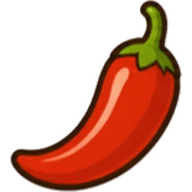
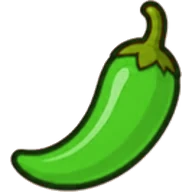
Completo por capas en la tabla, receta con palta y ají verde
- Reemplaza el completo de CSS por capas vectoriales que crecen con cada ingrediente.
- Cambia la receta del Completo a tomate, palta, chucrut y mayo, y suma la palta a la esquina 1.
- Pasa el ají a verde en el motor, el arte y la biblia.

diff --git a/v3/src/ui/gameView.ts b/v3/src/ui/gameView.ts
@@ -1,10 +1,11 @@
 // Pantalla de juego: dibuja el estado del motor en el DOM y traduce toques en acciones.
 
 import { DRINKS, RECIPES, TOPPINGS, formatCLP, type LevelConfig } from '../engine/data';
-import { Game, type Customer, type GameEvent, type StationId, type Tray } from '../engine/game';
+import { Game, type Customer, type GameEvent, type StationId } from '../engine/game';
 import type { DecorId, GameOptions } from '../engine/upgrades';
 import { play } from './audio';
 import { CUSTOMER_ART, DECOR_ART, DRINK_ART, LEVEL_BG, STATION_ART, TOPPING_ART, UPGRADE_ART, img } from './art';
+import { completoEl } from './completo';
 import { el, svgIcon } from './dom';
 
 const SCENERY: Record<LevelConfig['scene'], string[]> = {
@@ -457,7 +458,7 @@ export class GameView {
     this.trayEls.forEach((food, i) => {
       const t = g.trays[i];
       food.parentElement!.classList.toggle('active', i === g.activeTray);
-      food.replaceChildren(t ? this.hotdog(t) : el('div', { class: 'tray-empty' }, this.trayEls.length > 1 ? '+ pan' : 'Saca un pan de la vaporera'));
+      food.replaceChildren(t ? completoEl(t) : el('div', { class: 'tray-empty' }, this.trayEls.length > 1 ? '+ pan' : 'Saca un pan de la vaporera'));
     });
     const recipe = g.trayRecipe();
     if (!tray) this.trayLabel.textContent = '';
@@ -465,11 +466,6 @@ export class GameView {
     this.trayLabel.classList.toggle('ok', !!recipe);
     this.heldDrinkEl.replaceChildren(...(g.heldDrink ? [img(DRINK_ART[g.heldDrink], DRINKS[g.heldDrink].name)] : []));
     this.heldDrinkEl.hidden = !g.heldDrink;
-  }
-
-  private hotdog(tray: Tray): HTMLElement {
-    const layers = tray.toppings.map((t) => el('div', { class: `layer layer-${t}`, style: `--c:${TOPPINGS[t].color}` }));
-    return el('div', { class: 'hotdog' }, el('div', { class: 'bun-back' }), tray.vienesa ? el('div', { class: 'sausage' }) : el('div', {}), el('div', { class: 'layers' }, ...layers), el('div', { class: 'bun-front' }));
   }
 
   private renderTutorial() {

diff --git a/v3/src/ui/completo.ts b/v3/src/ui/completo.ts
@@ -1,0 +1,37 @@
+// El completo de la tabla: capas de vector apiladas, que crecen con cada ingrediente.
+
+import type { ToppingId } from '../engine/data';
+import type { Tray } from '../engine/game';
+import { img } from './art';
+import americana from './art/completo/americana.svg';
+import aji from './art/completo/aji.svg';
+import back from './art/completo/back.svg';
+import chucrutCentro from './art/completo/chucrut-centro.svg';
+import chucrut from './art/completo/chucrut.svg';
+import front from './art/completo/front.svg';
+import mayo from './art/completo/mayo.svg';
+import palta from './art/completo/palta.svg';
+import poroto from './art/completo/poroto.svg';
+import tomate from './art/completo/tomate.svg';
+import vienesa from './art/completo/vienesa.svg';
+import { el } from './dom';
+
+/** Capas en orden de atrás hacia adelante; lo que no se pide no se dibuja. */
+const LAYERS: [ToppingId, string][] = [
+  ['palta', palta],
+  ['poroto_verde', poroto],
+  ['americana', americana],
+  ['tomate', tomate],
+  ['aji', aji],
+  ['mayo', mayo]
+];
+
+export function completoEl(tray: Tray): HTMLElement {
+  const has = (t: ToppingId) => tray.toppings.includes(t);
+  const sources = [back, ...(tray.vienesa ? [vienesa] : [])];
+  for (const [topping, src] of LAYERS) {
+    if (topping === 'americana' && has('chucrut')) sources.push(has('palta') ? chucrutCentro : chucrut);
+    if (has(topping)) sources.push(src);
+  }
+  return el('div', { class: 'hotdog' }, ...sources.map((src) => img(src)), img(front));
+}

diff --git a/v3/src/ui/styles.css b/v3/src/ui/styles.css
@@ -1528,7 +1528,6 @@ img {
   background: rgba(255, 244, 220, 0.45);
 }
 .tray-side .hotdog {
-  zoom: 0.46;
   align-self: center;
   justify-self: center;
 }
@@ -1568,65 +1567,15 @@ img {
 }
 .hotdog {
   position: relative;
-  width: 104px;
-  height: 52px;
+  width: min(124px, 100%);
+  aspect-ratio: 292 / 132;
   animation: pop-in 0.18s ease-out;
 }
-.bun-back,
-.bun-front {
+.hotdog img {
   position: absolute;
-  left: 0;
-  right: 0;
-  border-radius: 999px;
-  border: var(--borde-fino);
-}
-.bun-back {
-  top: 10px;
-  height: 28px;
-  background: #e9a95b;
-}
-.bun-front {
-  bottom: 0;
-  height: 22px;
-  background: #f6c983;
-}
-.sausage {
-  position: absolute;
-  left: -6px;
-  right: -6px;
-  top: 17px;
-  height: 14px;
-  border-radius: 999px;
-  background: var(--vienesa);
-  border: var(--borde-fino);
-}
-.layers {
-  position: absolute;
-  left: 10px;
-  right: 10px;
-  bottom: 18px;
-  display: flex;
-  flex-direction: column-reverse;
-}
-.layer {
-  height: 6px;
-  margin-top: -1px;
-  border-radius: 999px;
-  background: var(--c);
-  animation: pop-in 0.15s ease-out;
-}
-.layer-tomate {
-  background: radial-gradient(circle, #ff7a66 35%, var(--c) 36%) 0 0 / 12px 6px;
-}
-.layer-mayo {
-  height: 7px;
-  background: repeating-radial-gradient(circle at 50% 100%, #fffbea 0 4px, #f3e8c0 4px 5px);
-}
-@keyframes pop-in {
-  from {
-    transform: scale(0.6);
-    opacity: 0;
-  }
+  inset: 0;
+  width: 100%;
+  height: 100%;
 }
 .trash-btn {
   margin-top: 4px;

diff --git a/v3/src/engine/data.ts b/v3/src/engine/data.ts
@@ -77,13 +77,13 @@ export const TOPPINGS: Record<ToppingId, ToppingInfo> = {
   chucrut: { id: 'chucrut', name: 'Chucrut', icon: '🥬', color: '#e6dd8a' },
   americana: { id: 'americana', name: 'Americana', icon: '🥒', color: '#c0ca33' },
   salsa_verde: { id: 'salsa_verde', name: 'Salsa verde', icon: '🌿', color: '#2e7d32' },
-  aji: { id: 'aji', name: 'Ají', icon: '🌶', color: '#d84315' },
+  aji: { id: 'aji', name: 'Ají verde', icon: '🌶', color: '#2f7a2a' },
   poroto_verde: { id: 'poroto_verde', name: 'Poroto verde', icon: '🫛', color: '#558b2f' }
 };
 
 export const RECIPES: Record<RecipeId, RecipeInfo> = {
   italiano: { id: 'italiano', name: 'Italiano', toppings: ['tomate', 'palta', 'mayo'], price: 2500 },
-  completo: { id: 'completo', name: 'Completo', toppings: ['tomate', 'chucrut', 'mayo'], price: 2300 },
+  completo: { id: 'completo', name: 'Completo', toppings: ['tomate', 'palta', 'chucrut', 'mayo'], price: 2300 },
   dinamico: {
     id: 'dinamico',
     name: 'Dinámico',
@@ -104,7 +104,7 @@ export const DRINKS: Record<DrinkId, DrinkInfo> = {
   mote: { id: 'mote', name: 'Mote con huesillo', icon: '🍑', price: 1500 }
 };
 
-const BASE = ['tomate', 'chucrut', 'mayo'] as ToppingId[];
+const BASE = ['tomate', 'palta', 'chucrut', 'mayo'] as ToppingId[];
 
 export const LEVELS: LevelConfig[] = [
   {

diff --git a/docs/biblia-juego.md b/docs/biblia-juego.md
@@ -24,7 +24,7 @@ Atiendes un carrito de completos talquino: vienesas en la olla, pan en la vapore
 - **Pago y propina:** más rápido = más propina; combos por atender seguido sin perder clientes.
 - **Meta de plata** por turno; 1–3 estrellas según cuánto la superes.
 
-Recetas actuales: Completo (tomate, chucrut, mayo), Italiano (tomate, palta, mayo), Dinámico (+ americana), Chacarero (tomate, poroto verde, ají, mayo). Bebidas: bebida, jugo, mote con huesillo.
+Recetas actuales: Completo (tomate, palta, chucrut, mayo), Italiano (tomate, palta, mayo), Dinámico (tomate, palta, americana, mayo), Chacarero (tomate, poroto verde, ají verde, mayo). Bebidas: bebida, jugo, mote con huesillo.
 
 ## Reglas de diseño
 - Una novedad por esquina como máximo, presentada en la pantalla de introducción.
